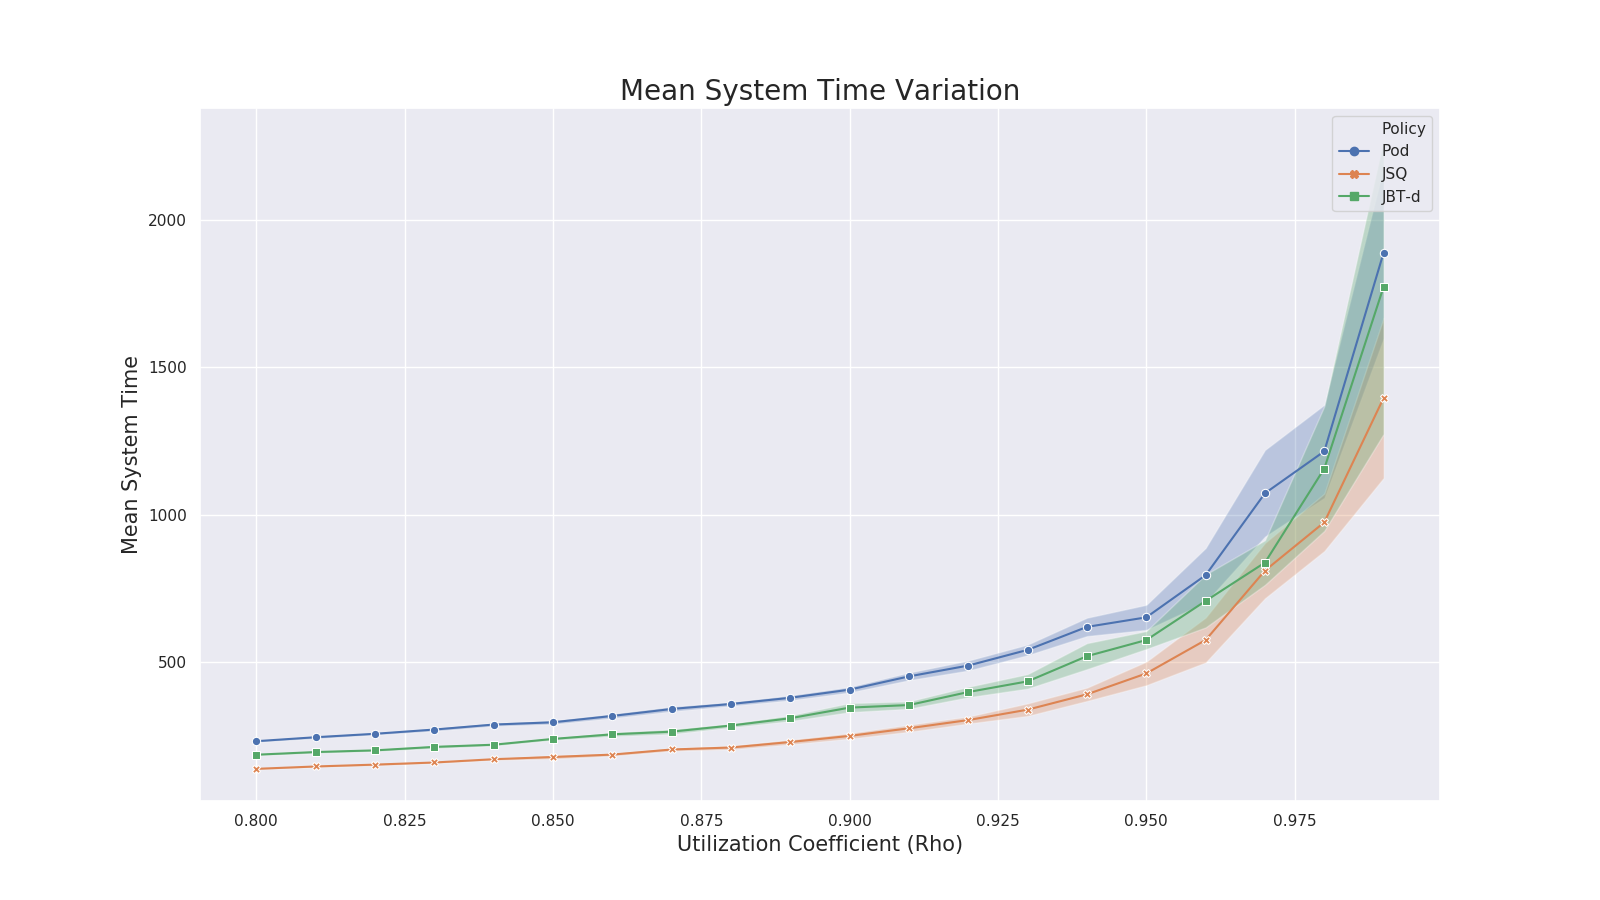
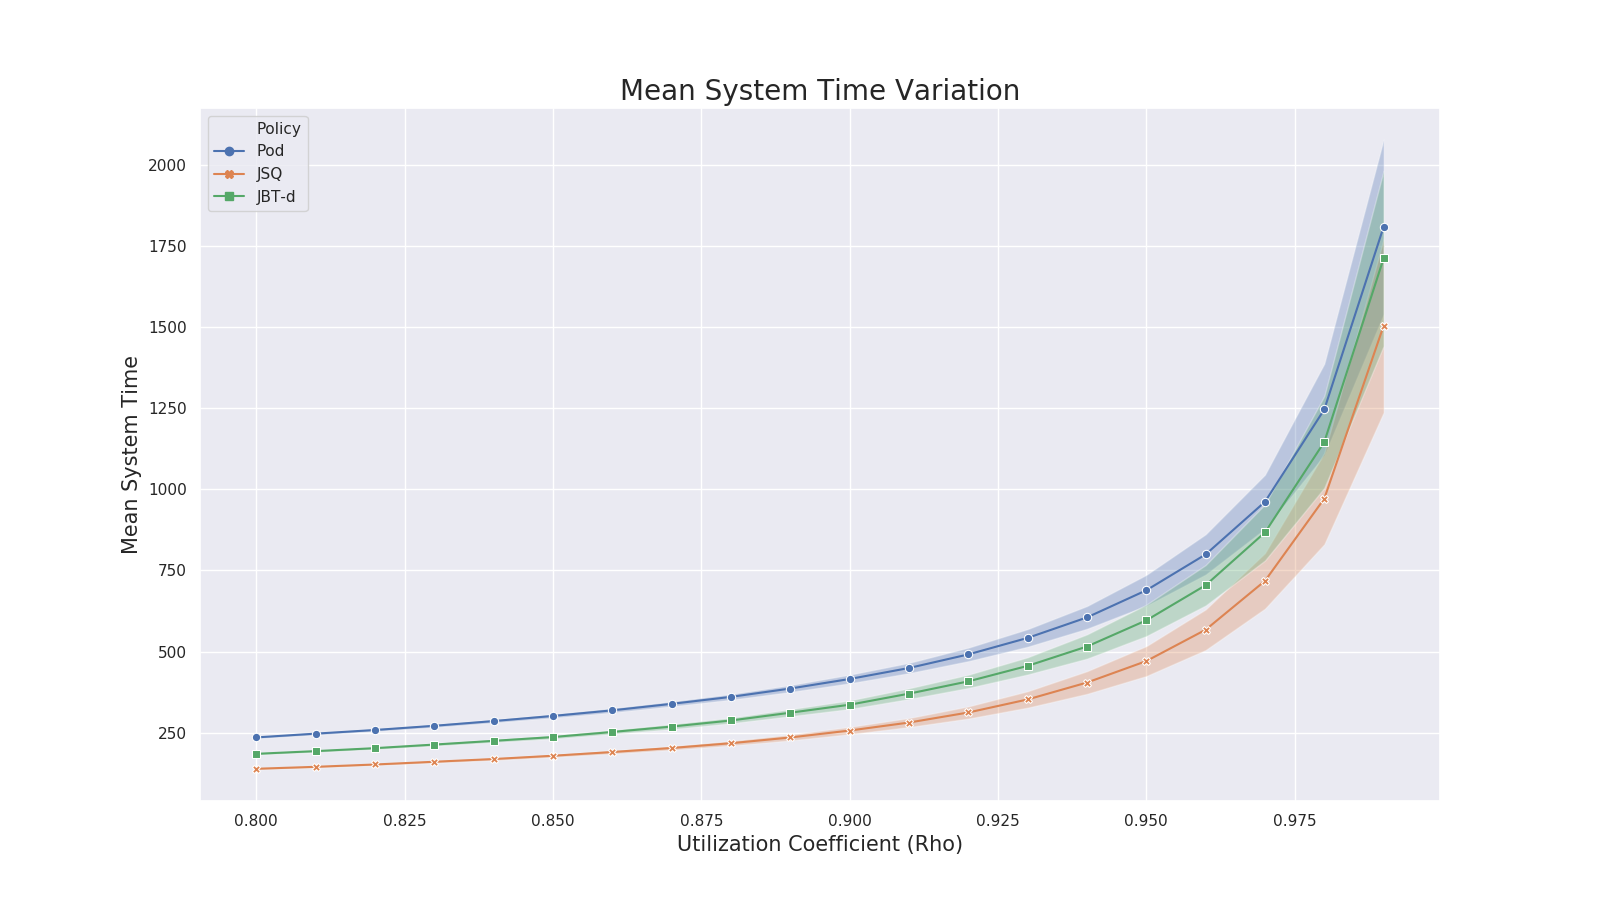
Final

diff --git a/simulation_utils.py b/simulation_utils.py
@@ -28,7 +28,9 @@ def plot(df, d, title, xlabel, ylabel, path, confidence_intervals=None):
     plt.title(title, fontsize=20)
     plt.xlabel(xlabel, fontsize=15)
     plt.ylabel(ylabel, fontsize=15)
-    plt.savefig(path)
+    if confidence_intervals != None:
+        plt.legend(loc='upper left')
+    # plt.savefig(path)
     plt.show()
 
 
@@ -39,15 +41,16 @@ class Simulator:
         self.number_of_tasks = number_of_tasks
         self.d = d
 
-    def simulate_partial(self, rho, i, output: list, overheads: list, jbt, custom):
+    def simulate_partial(self, rho, i, output: list, overheads: list, jbt, custom, seed):
         dispatcher = Dispatcher(self.number_of_tasks,
                                 self.number_of_servers,
-                                rho, self.d, jbt=jbt, custom=custom)
+                                rho, self.d, seed,
+                                jbt=jbt, custom=custom)
         mean_sys_delay, overhead = dispatcher.execute_simulation()
         output.append((i, mean_sys_delay))
         overheads.append((i, overhead))
 
-    def multiprocessing_simulation(self, rho_values, n_proc, jbt=False, custom=False):
+    def multiprocessing_simulation(self, rho_values, n_proc, jbt=False, custom=False, seed=1):
         processes = []
         # initialize the Manager for results and shared variables
         manager = mp.Manager()
@@ -57,7 +60,7 @@ class Simulator:
         # initialize processes
         for i in range(len(rho_values)):
             p = mp.Process(target=self.simulate_partial,
-                           args=[rho_values[i], i, output, overheads, jbt, custom])
+                           args=[rho_values[i], i, output, overheads, jbt, custom, seed])
             processes.append(p)
 
         # start processes

diff --git a/Dispatcher.py b/Dispatcher.py
@@ -15,7 +15,7 @@ class Dispatcher:
 
     def __init__(self, number_of_tasks: int,
                  number_of_servers: int,
-                 rho: float, d: int,
+                 rho: float, d: int, seed=1,
                  jbt=False, custom=False):
         self.number_of_tasks = number_of_tasks
         self.number_of_servers = number_of_servers
@@ -31,6 +31,7 @@ class Dispatcher:
         self.jbt = jbt
         self.custom = custom
         self.rs = []
+        self.seed = seed
 
     def get_tasks_timeline(self):
         return self.tasks_timeline
@@ -237,7 +238,7 @@ class Dispatcher:
         print("Starting simulation for rho = " + str(self.rho))
         print()
 
-        random.seed(1)
+        random.seed(self.seed)
         self.generate_tasks_timeline()
         self.generate_tasks()
 

diff --git a/main.py b/main.py
@@ -10,7 +10,7 @@ number_of_tasks = (10**5)
 number_of_servers = 20
 d = 3
 rho_values = np.arange(0.8, 1., 0.01)
-multiple_sim = True
+multiple_sim = False
 n_sim = 20
 n_proc = mp.cpu_count()
 custom = False
@@ -23,9 +23,9 @@ def perform_multiple_simulations(simulator, jbt=False, custom=False):
     lowers = []
     uppers = []
 
-    for _ in range(n_sim):
+    for i in range(n_sim):
         mean_system_times_partial, overheads = simulator.multiprocessing_simulation(
-            rho_values, n_proc, jbt, custom)
+            rho_values, n_proc, jbt, custom, seed=i)
         mean_system_times_lists.append(mean_system_times_partial)
 
     for l in zip(*mean_system_times_lists):
